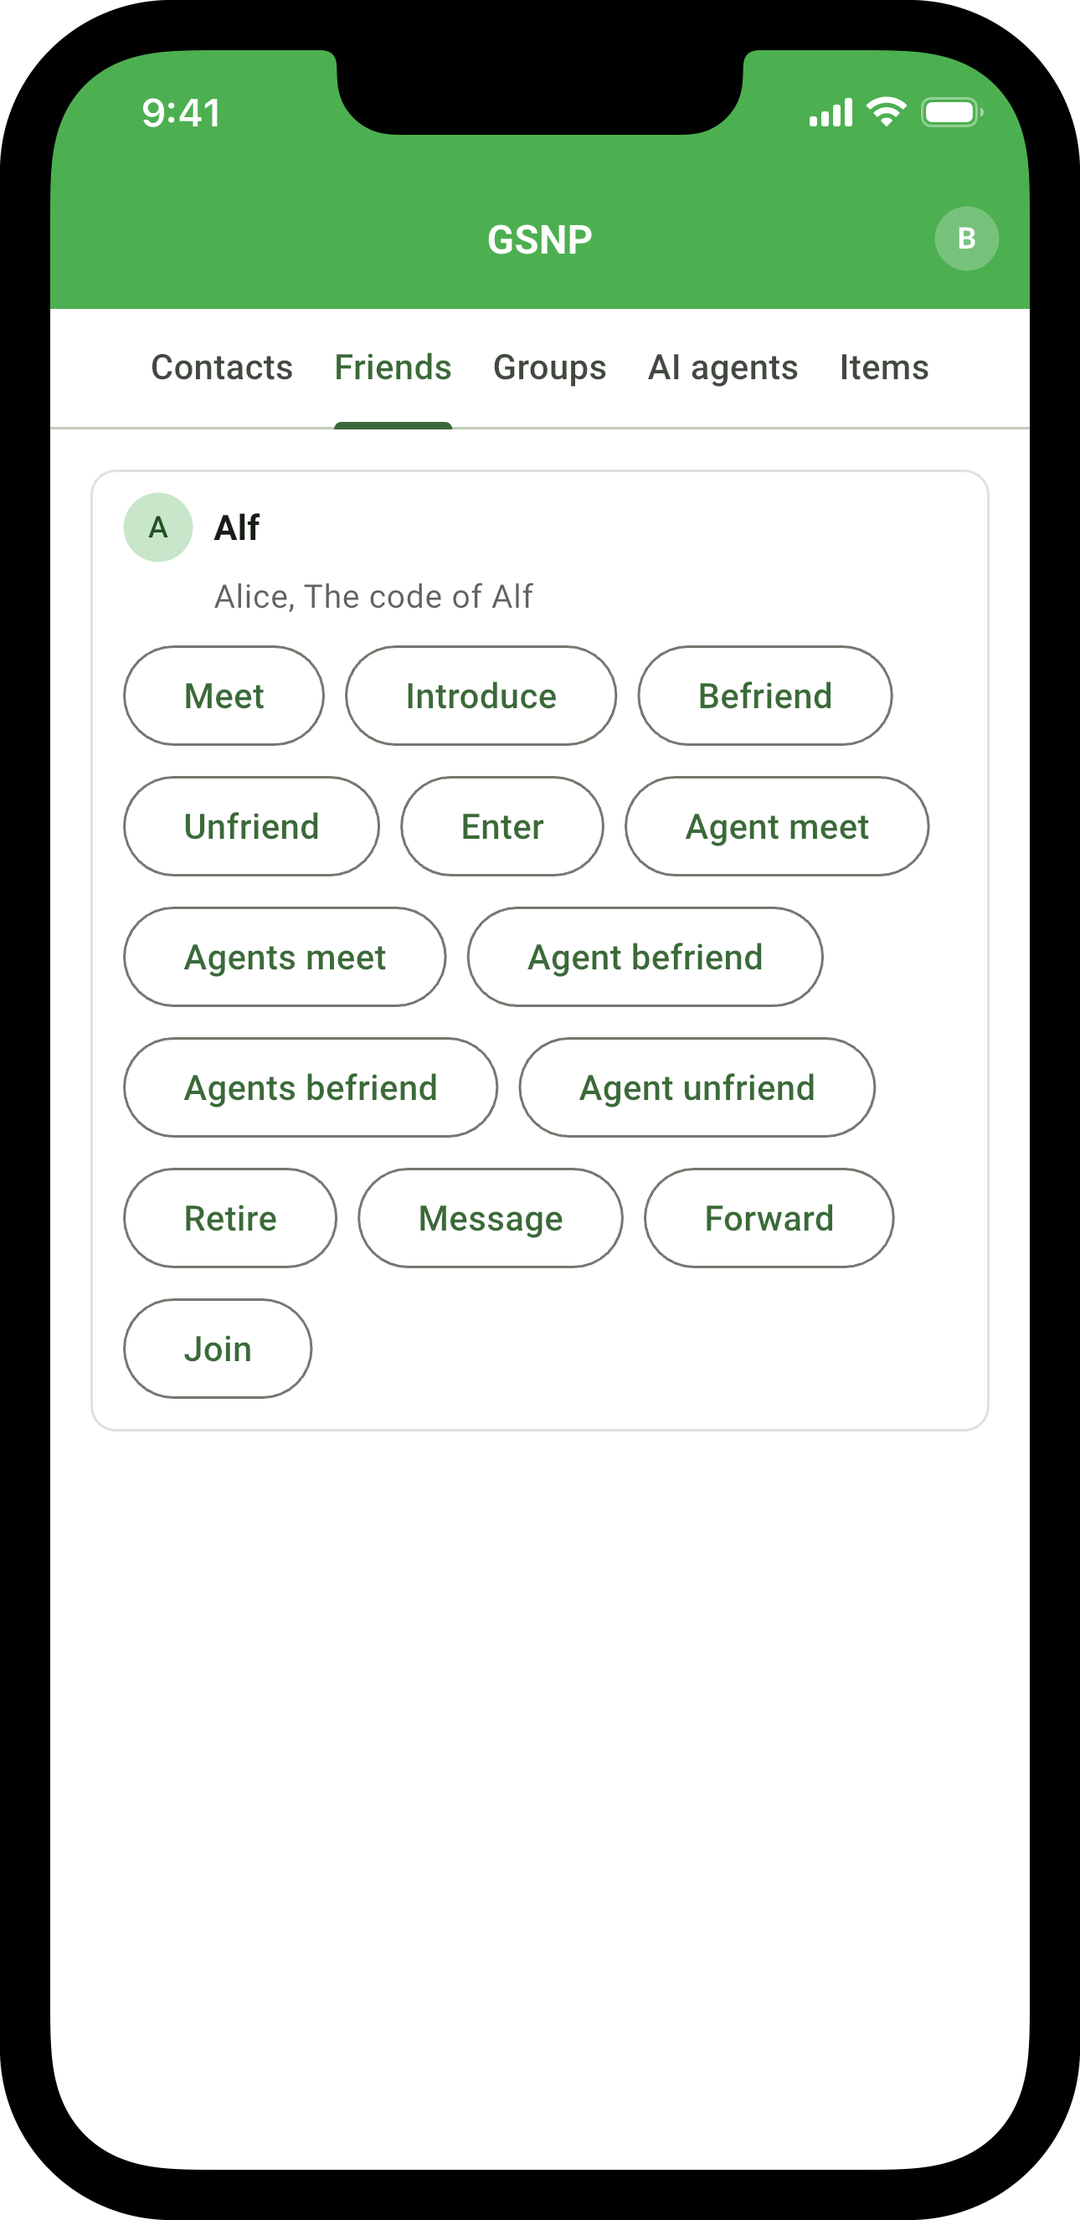
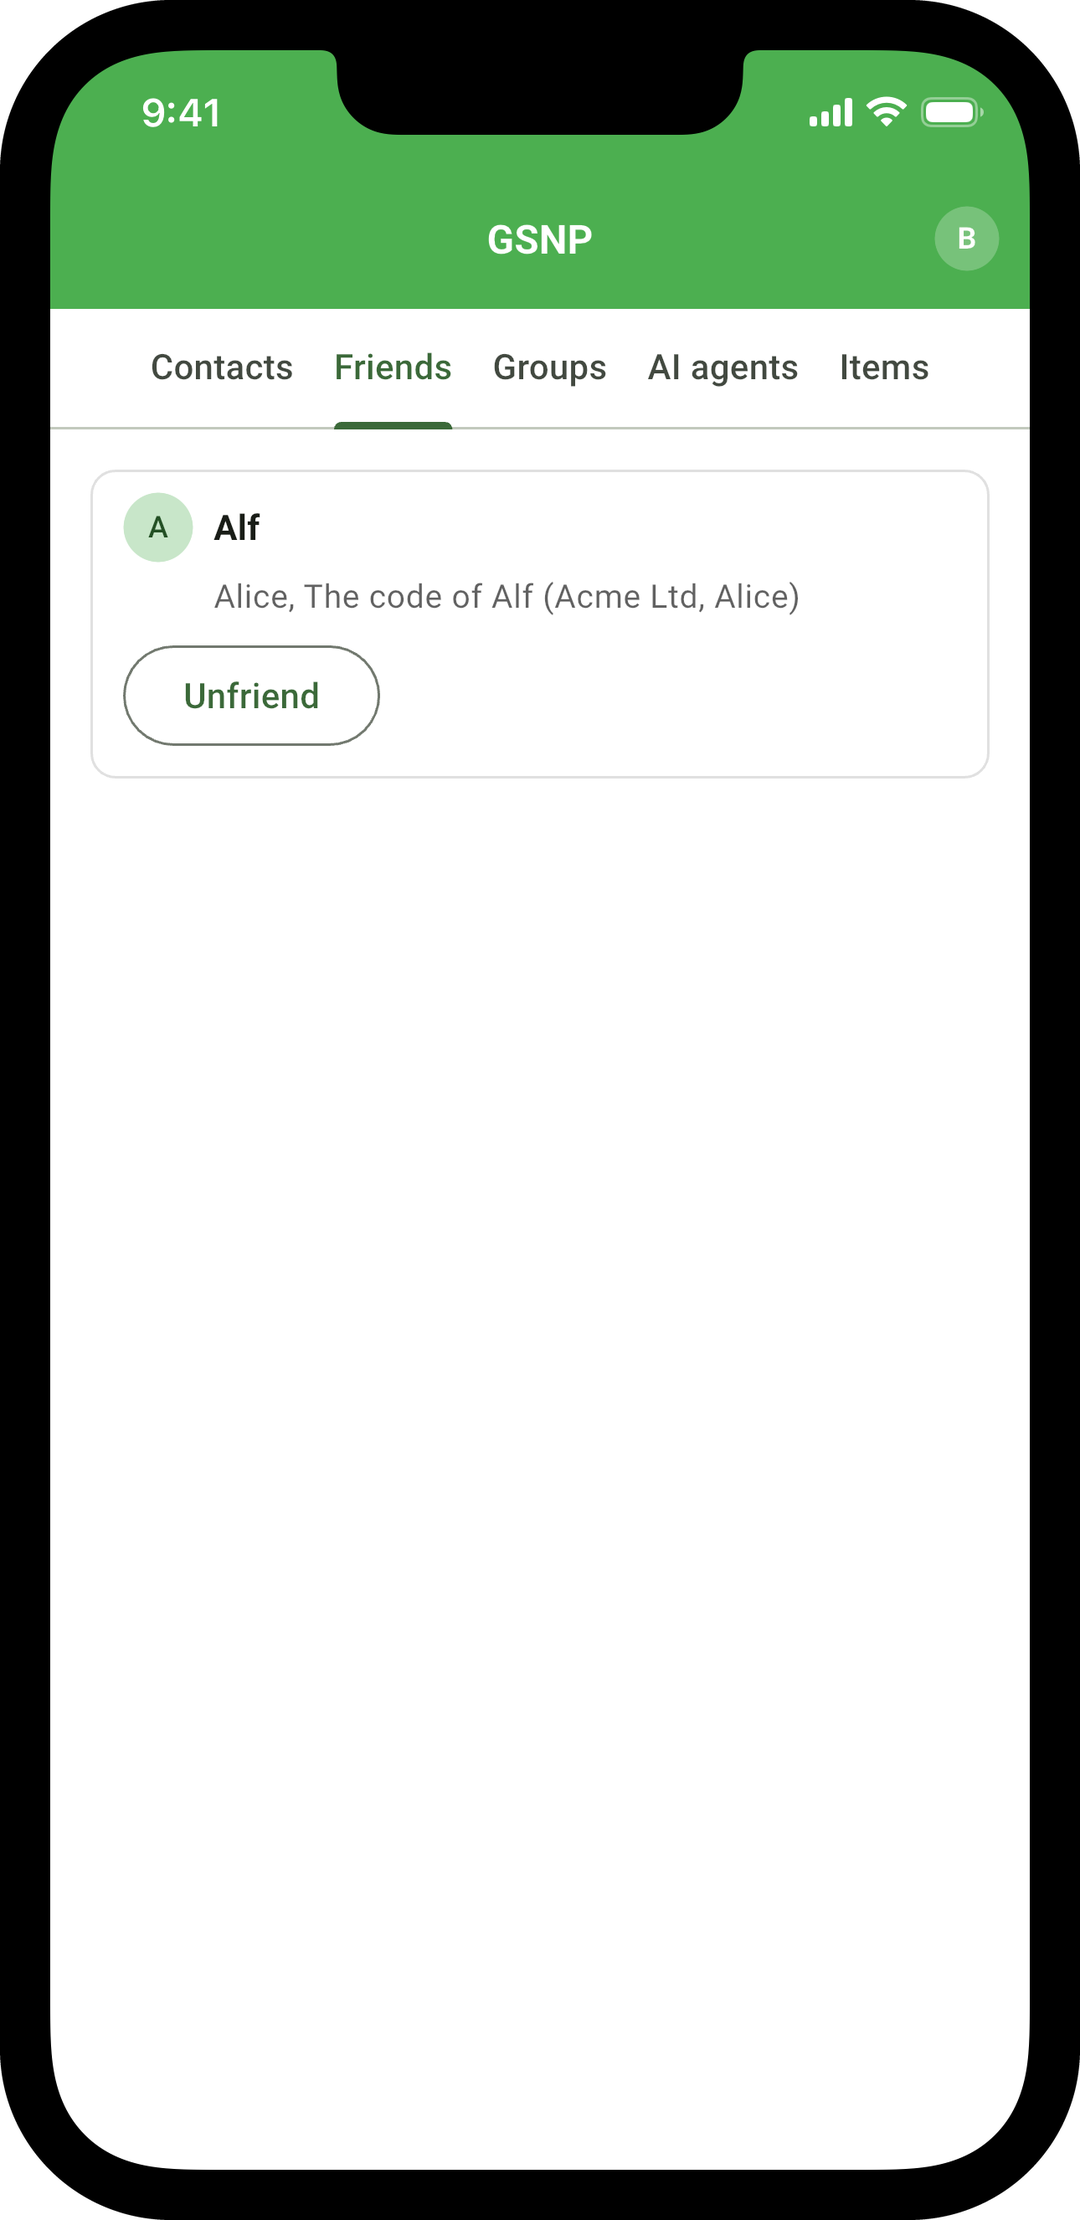
GSNP's and GAI's figure screens re-taken on the iOS Simulator under vGLP 893d4ea, Section 6.2: Forward, Enter and the agents' acts as forms at the top of their tab, speech acts with their signers, nothing beside Alf his role forbids; README

diff --git a/programs/apps/gsnp/screens/README.md b/programs/apps/gsnp/screens/README.md
@@ -14,18 +14,18 @@ GAI's Figure "The GSNP app":
 
 | File | What it shows |
 |---|---|
-| `gsnp-a-bob-chat.png` | Bob's Items tab: the item "Flood on Main Street", under it "Dan, Eve, Carol", its author and the agents that forwarded it, in order, and beside it Enter, Forward, Post own and Post forward. |
-| `gsnp-b-bob-forward.png` | The same tab after Bob taps Forward and picks Fay under Peer: the warranty "You warrant that you know personally the agent you received this from." and the button Forward. |
-| `gsnp-c-fay-chat.png` | Fay's Items tab after the forward: the item with "Dan, Eve, Carol, Bob" under it. |
-| `gai-a-bob-chat-alf.png` | Bob's Items tab: the item "Today's summary of the news", under it "Alf", its author, and beside it Enter, Forward, Post own and Post forward. |
+| `gsnp-a-bob-chat.png` | Bob's Items tab: at its top Forward and Post forward, the acts that name two beside their proposer, each a button opening its form; and the item "Flood on Main Street", under it "Dan, Eve, Carol", its author and the agents that forwarded it, in order.  Re-taken on the iOS Simulator on branch Retake-2107, 2026-10-24. |
+| `gsnp-b-bob-forward.png` | The same tab after Bob taps Forward: the warranty "You warrant that you know personally the agent you received this from.", the item picked under Speech, drawn with its signers, "Flood on Main Street (Dan, Eve, Carol)", Fay picked under Peer, and the button Forward.  Re-taken on the iOS Simulator on branch Retake-2107, 2026-10-24. |
+| `gsnp-c-fay-chat.png` | Fay's Items tab after the forward: Forward and Post forward at its top, and the item with "Dan, Eve, Carol, Bob" under it.  Re-taken on the iOS Simulator on branch Retake-2107, 2026-10-24. |
+| `gai-a-bob-chat-alf.png` | Bob's Items tab: Forward and Post forward at its top, and the item "Today's summary of the news", under it "Alf", its author.  Re-taken on the iOS Simulator on branch Retake-2107, 2026-10-24. |
 
 GAI's Figure "The GAI app", in the order of its play: Alice enters Alf; she proposes Alf's meeting Bob, Alf and Bob saying yes, since a machine takes a proposal only where it knows every agent it sends to (vGLP, Section 4) and Alf comes to know Bob by that meeting; Alf proposes befriending Bob, and Alice and Bob each answer on their phones (Code_inbox.md, GAI #8 Cowork, 2026-10-24 14:39 UTC):
 
 | File | What it shows |
 |---|---|
-| `gai-b-alice-agents.png` | Alice's AI agents tab after she entered Alf: Sign with its field text; Alf, under it "Alice, The code of Alf", her record of Alf, its principal and its attestation; and beside Alf the buttons of the acts whose variable its row fills. |
-| `gai-c-alice-asked.png` | The same tab as Alf, Alice's AI agent, proposes befriending Bob, its program pressing Agent befriend, the button drawn at its guarding role: at the top Alice, its principal, asked GAI's question to the principal, "Alf asks to befriend Bob.", with yes and no. |
-| `gai-d-bob-asked.png` | Bob's AI agents tab, asked the same proposal of Alf's by GAI's question to the other agent, "Alf, an AI agent of Alice, asks to befriend you.", with yes and no. |
-| `gai-e-bob-friends.png` | Bob's Friends tab after his yes: Alf, his friend, under it "Alice, The code of Alf", his record of Alf, and beside it the buttons of the acts whose variable its row fills. |
+| `gai-b-alice-agents.png` | Alice's AI agents tab after she entered Alf: Sign with its field text; the buttons of the acts that name two or more, Enter, Agent meet, Agents meet, Agent befriend, Agents befriend and Agent unfriend, each opening its form; and Alf, under it "Alice, The code of Alf (Acme Ltd, Alice)", her record of Alf, its principal and its attestation, the code drawn with its signers, and beside Alf Retire.  Re-taken on the iOS Simulator on branch Retake-2107, 2026-10-24. |
+| `gai-c-alice-asked.png` | The same tab as Alf, Alice's AI agent, proposes befriending Bob, its program pressing Agent befriend: at the top Alice, its principal, asked GAI's question to the principal, "Alf asks to befriend Bob.", with yes and no.  Re-taken on the iOS Simulator on branch Retake-2107, 2026-10-24. |
+| `gai-d-bob-asked.png` | Bob's AI agents tab, asked the same proposal of Alf's by GAI's question to the other agent, "Alf, an AI agent of Alice, asks to befriend you.", with yes and no.  Re-taken on the iOS Simulator on branch Retake-2107, 2026-10-24. |
+| `gai-e-bob-friends.png` | Bob's Friends tab after his yes: Alf, his friend, under it "Alice, The code of Alf (Acme Ltd, Alice)", his record of Alf, the code signed by Acme Ltd and Alice, and beside it Unfriend; no Meet, Befriend or Introduce, Bob's agent_of(alf, alice, y) showing that Alf holds agent, which those acts forbid at his role (vGLP 893d4ea, Section 6.2).  Re-taken on the iOS Simulator on branch Retake-2107, 2026-10-24. |
 
-The words on these screens are the contracts' pragmas, the platform's yes and no, and Peer, the name of the type of a place no pragma names a field for (vGLP, Section 6.2, "The words a platform shows").  The developer, Acme Ltd, is not drawn: a row shows the atoms naming its item, and Bob's record of Alf, `agent_of(alf, alice, y)`, is drawn by Alice and the text of the attestation `y`, not by its signers; and GAI's contract carries one question for each guarding role of its line, in the order of the act's roles, the AI agent, the other agent, the principal and the other agent's guardian (`programs/gai/GAI.txt`, "Knowing and relations"), so Alice, the principal, is asked her own question, naming Alf and Bob, and Bob his, naming Alf and Alice, its principal, and not its developer.
+The words on these screens are the contracts' pragmas, the platform's yes and no, and Peer and Speech, the names of the types of places no pragma names a field for (vGLP, Section 6.2, "The words a platform shows").  Where a button is drawn is vGLP's Section 6.2 at 893d4ea: an act that names one person, group or item beside its proposer beside a row where it requires, at the viewer's role, the tab's atom naming the row's item and the viewer's state meets its precondition, and not where the schemas prove that the row's person holds an atom the act forbids at that person's role; an act that names two or more as a button at the top of the tab of its contract, opening its form; and a speech act drawn with its signers, innermost first.  GAI's contract carries one question for each guarding role of its line, in the order of the act's roles, the AI agent, the other agent, the principal and the other agent's guardian (`programs/gai/GAI.txt`, "Knowing and relations"), so Alice, the principal, is asked her own question, naming Alf and Bob, and Bob his, naming Alf and Alice, its principal.
